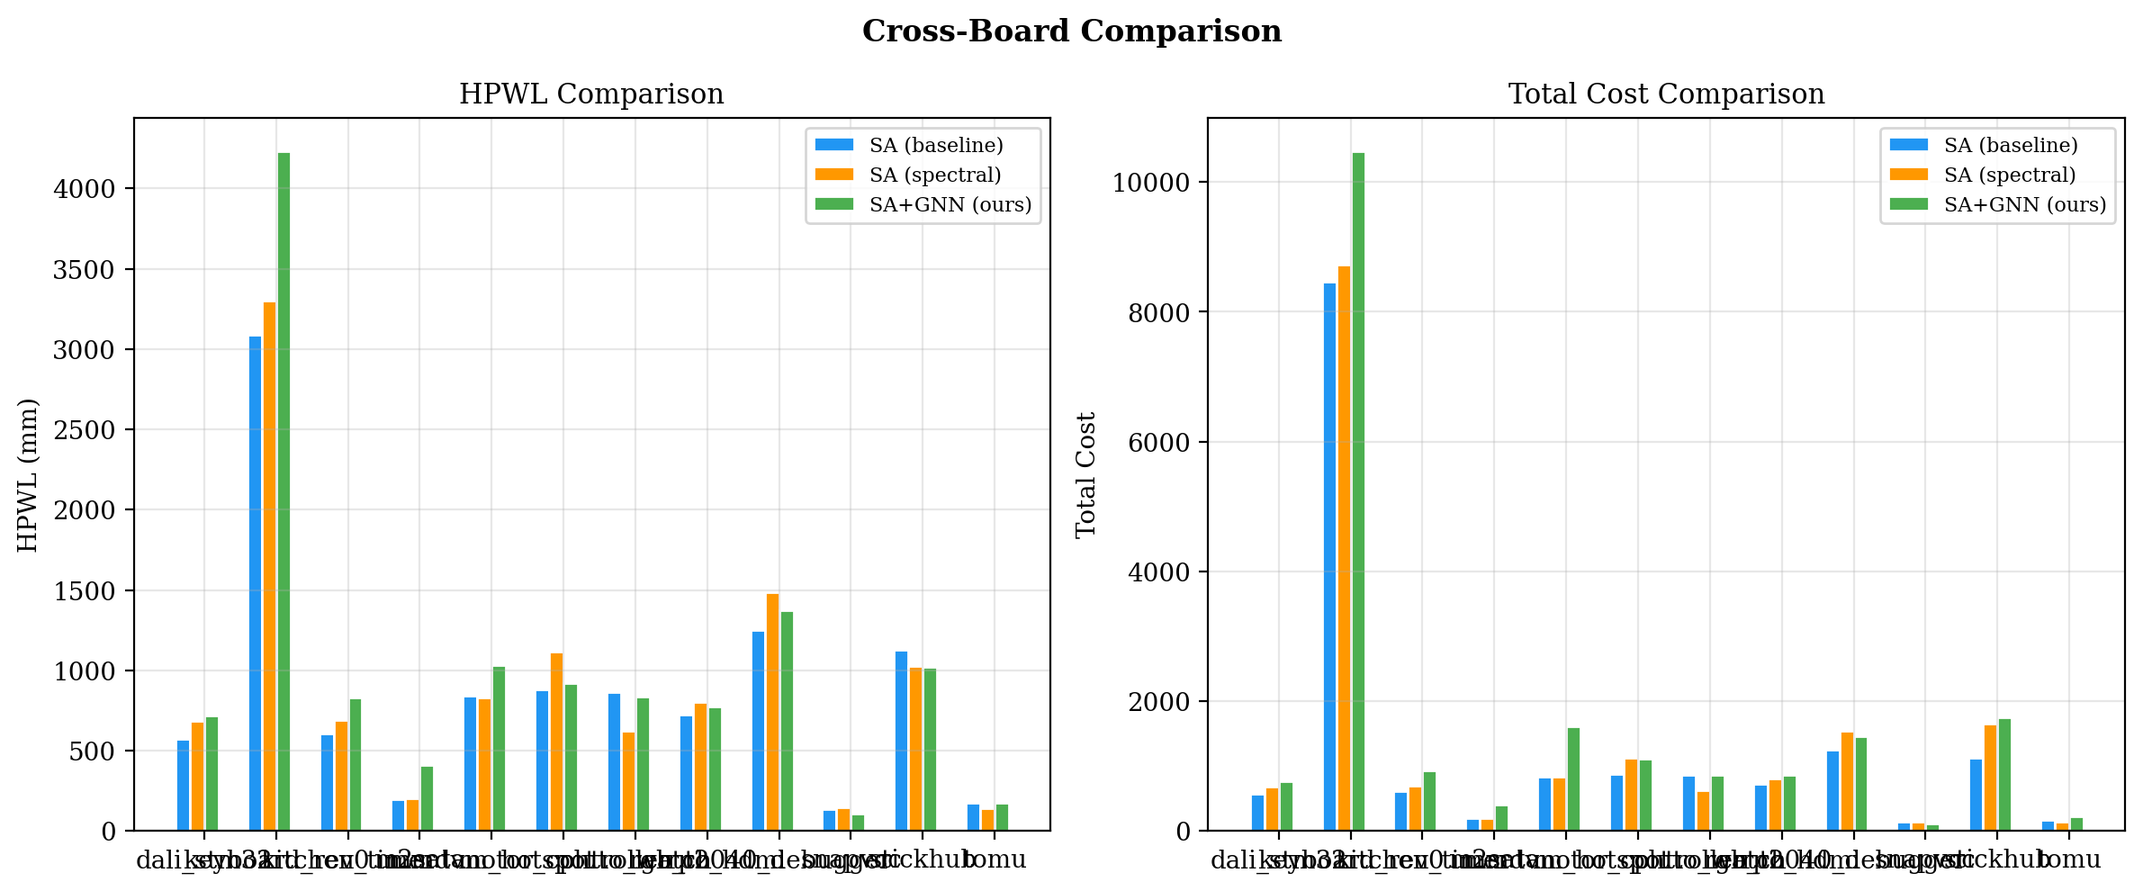
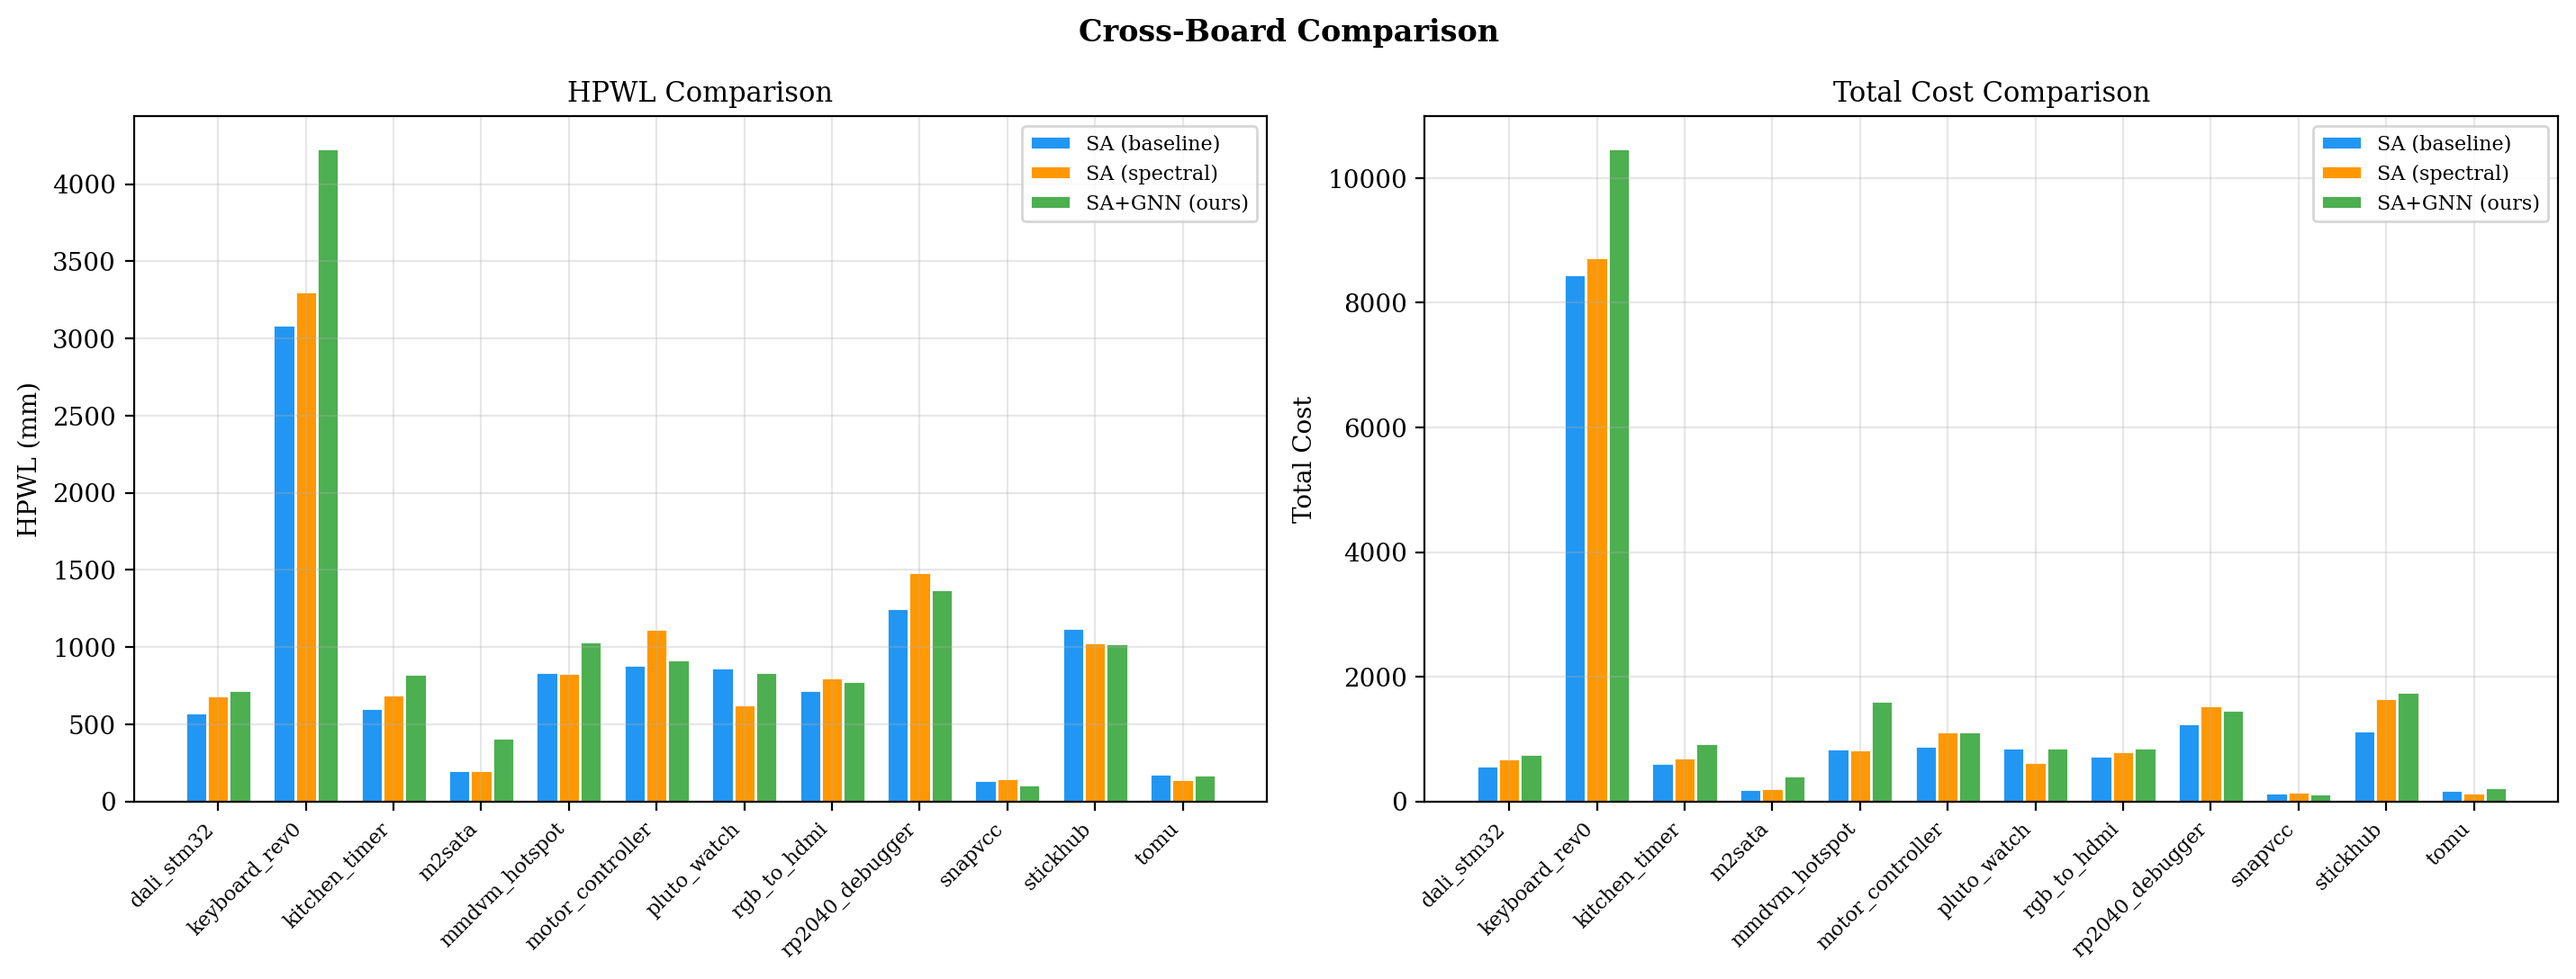
fix overlapping x-axis labels on cross-board chart
- rotate labels 45 degrees with right-aligned text
- widen figure dynamically based on board count
- increase bar width for better readability

diff --git a/graphs.py b/graphs.py
@@ -152,30 +152,30 @@ def plot_comparison_bar(results, outdir):
 def plot_cross_board(results_list, outdir):
     """Combined bar chart across multiple boards."""
     n_boards = len(results_list)
-    fig, (ax1, ax2) = plt.subplots(1, 2, figsize=(12, 5))
+    fig, (ax1, ax2) = plt.subplots(1, 2, figsize=(max(14, n_boards * 1.2), 5.5))
 
-    bar_w = 0.2
+    bar_w = 0.25
     x = np.arange(n_boards)
     labels = [r['pcb'] for r in results_list]
 
     for offset, key, label, color in [
-        (-1.5, 'sa_baseline', 'SA (baseline)', COLORS['baseline']),
-        (-0.5, 'sa_spectral', 'SA (spectral)', COLORS['spectral']),
-        (0.5, 'sa_gnn', 'SA+GNN (ours)', COLORS['gnn']),
+        (-1, 'sa_baseline', 'SA (baseline)', COLORS['baseline']),
+        (0, 'sa_spectral', 'SA (spectral)', COLORS['spectral']),
+        (1, 'sa_gnn', 'SA+GNN (ours)', COLORS['gnn']),
     ]:
         hpwls = [r[key]['hpwl'] for r in results_list]
         costs = [r[key]['cost'] for r in results_list]
         ax1.bar(x + offset * bar_w, hpwls, bar_w, label=label, color=color, edgecolor='white')
         ax2.bar(x + offset * bar_w, costs, bar_w, label=label, color=color, edgecolor='white')
 
-    ax1.set_xticks(x)
-    ax1.set_xticklabels(labels)
+    for ax in (ax1, ax2):
+        ax.set_xticks(x)
+        ax.set_xticklabels(labels, rotation=45, ha='right', fontsize=8)
+
     ax1.set_ylabel('HPWL (mm)')
     ax1.set_title('HPWL Comparison')
     ax1.legend()
 
-    ax2.set_xticks(x)
-    ax2.set_xticklabels(labels)
     ax2.set_ylabel('Total Cost')
     ax2.set_title('Total Cost Comparison')
     ax2.legend()
